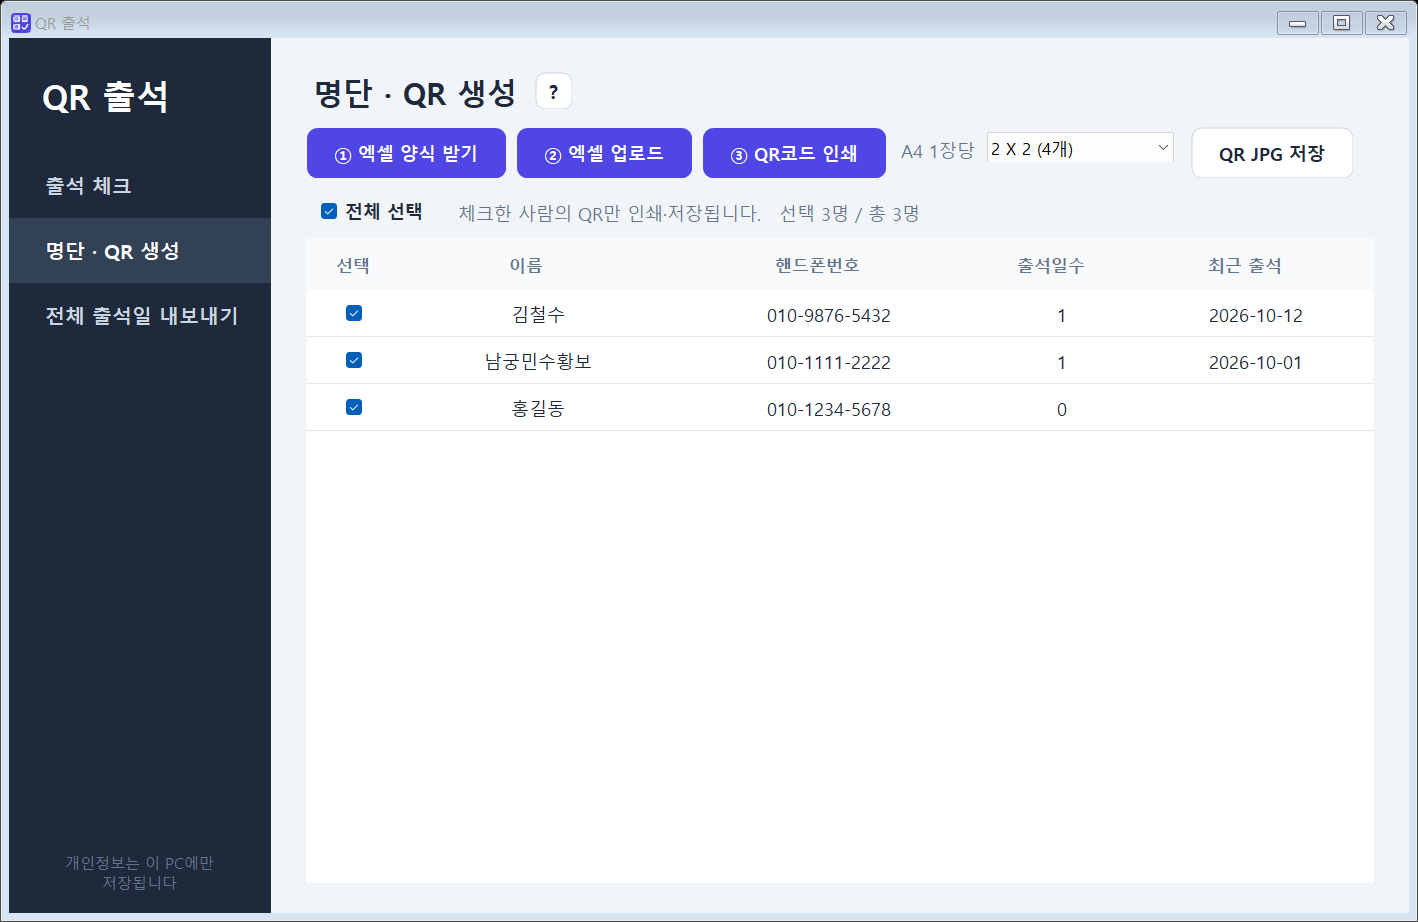
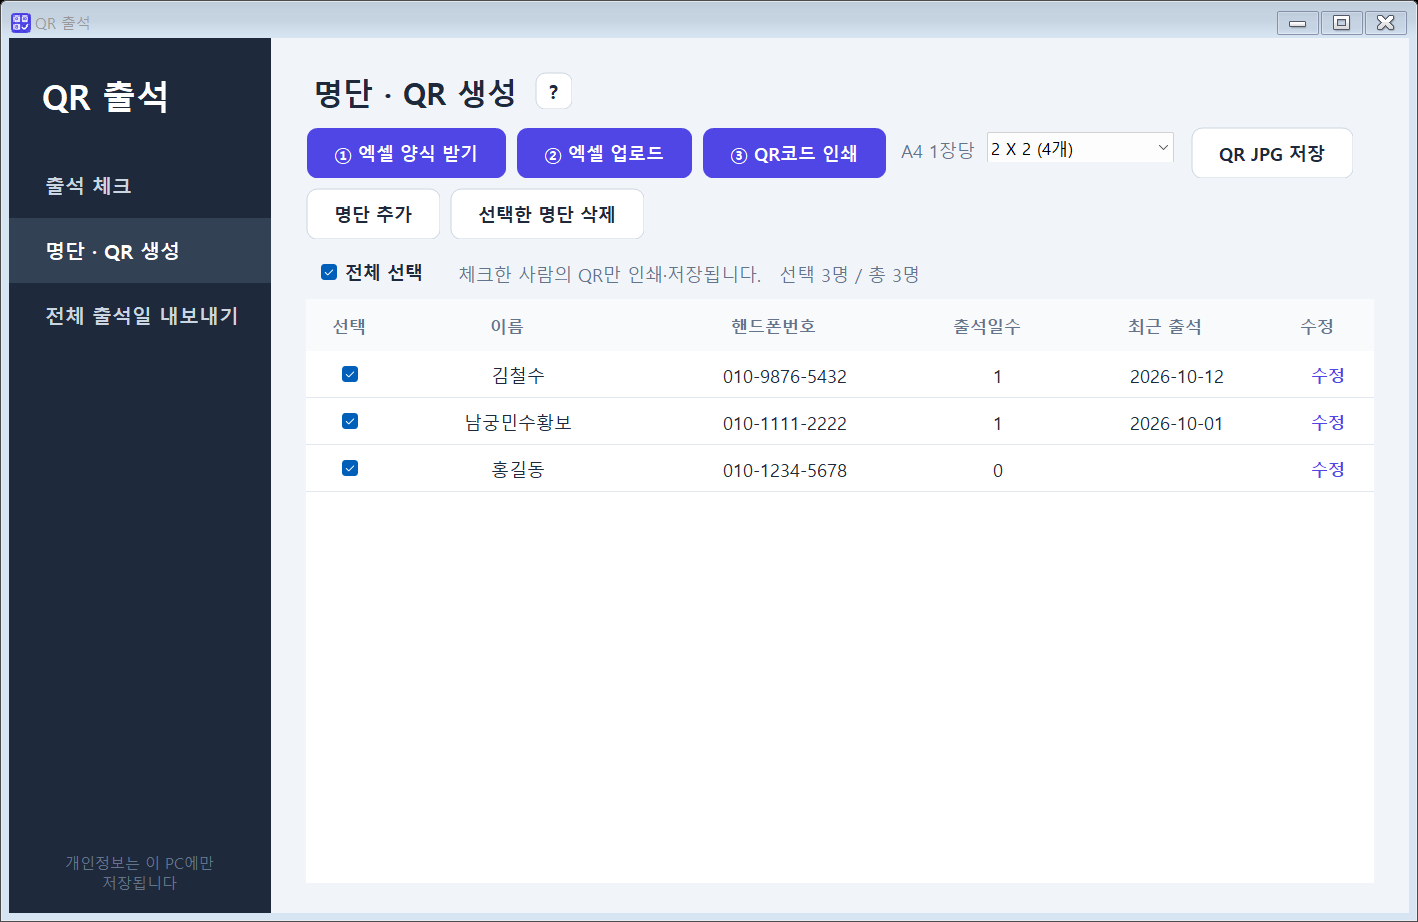
명단 추가·수정·삭제 기능

diff --git a/MainForm.cs b/MainForm.cs
@@ -86,6 +86,7 @@ class MainForm : Form
         }
         snapshotDir = dir;
         ShowRosterHelp();
+        PersonDialog("명단 수정", "홍길동", "010-1234-5678");
         snapshotDir = null;
         OpenFullscreen();
         var gray = new Bitmap(1280, 720);
@@ -466,6 +467,8 @@ class MainForm : Form
         gridBox.Margin = new Padding(0, S(4), S(6), 0);
         bar.Controls.Add(perPage);
         bar.Controls.Add(Btn("QR JPG 저장", SaveCards, Kind.Secondary));
+        bar.Controls.Add(Btn("명단 추가", AddPerson, Kind.Secondary));
+        bar.Controls.Add(Btn("선택한 명단 삭제", DeletePeople, Kind.Secondary));
 
         // 체크한 사람만 인쇄/저장. 처음엔 전원 체크
         var pick = new FlowLayoutPanel { Dock = DockStyle.Top, Height = S(40), WrapContents = false, Padding = new Padding(S(12), S(6), 0, 0) };
@@ -484,10 +487,19 @@ class MainForm : Form
         rosterGrid.Columns.Insert(0, new DataGridViewCheckBoxColumn { HeaderText = "선택", FillWeight = 10 });
         rosterGrid.DefaultCellStyle.SelectionBackColor = Color.White; // 행 강조 대신 체크박스로만 선택을 표시
         rosterGrid.Cursor = Cursors.Hand;
+        var editCol = new DataGridViewTextBoxColumn { HeaderText = "수정", FillWeight = 10 };
+        editCol.DefaultCellStyle.ForeColor = editCol.DefaultCellStyle.SelectionForeColor = Theme.Accent;
+        editCol.DefaultCellStyle.Font = new Font(Core.FontName, 10, FontStyle.Bold);
+        rosterGrid.Columns.Add(editCol);
         void Toggle(object s, DataGridViewCellEventArgs e)
         {
             if (e.RowIndex < 0) return;
             var row = rosterGrid.Rows[e.RowIndex];
+            if (e.ColumnIndex == editCol.Index)
+            {
+                EditPerson(row);
+                return;
+            }
             SetPicked(row, !(bool)row.Cells[0].Value);
             UpdatePick();
         }
@@ -508,6 +520,7 @@ class MainForm : Form
             ("3. QR을 만들 사람 고르기", "명단 왼쪽의 체크가 켜진 사람만 QR이 만들어집니다. 처음에는 모두 켜져 있습니다.\n한 사람씩 누르면 켜고 끌 수 있고, [전체 선택]으로 한꺼번에 켜고 끕니다."),
             ("4. QR코드 인쇄", "[A4 1장당]에서 한 장에 몇 개를 넣을지 고른 뒤 [③ QR코드 인쇄]를 누릅니다.\n미리보기 창이 뜨면 왼쪽 위의 프린터 그림을 눌러 인쇄합니다."),
             ("5. QR JPG 저장", "[QR JPG 저장]을 누르고 폴더를 고르면 한 사람당 그림 파일 하나(이름.jpg)로 저장됩니다.\n핸드폰에 넣어 두고 화면을 카메라에 대도 출석이 됩니다."),
+            ("6. 명단 추가 · 수정 · 삭제", "[명단 추가]로 한 명씩 직접 등록할 수 있습니다.\n명단 오른쪽 끝의 [수정]을 누르면 이름과 핸드폰번호를 고칩니다. QR은 바뀌지 않습니다.\n지울 사람만 체크하고 [선택한 명단 삭제]를 누르면 출석 기록까지 함께 지워지며 되돌릴 수 없습니다."),
         };
         using var dlg = new Form
         {
@@ -546,7 +559,7 @@ class MainForm : Form
         var rows = Core.Query(@"SELECT p.id, p.name, p.phone, COUNT(a.id), COALESCE(MAX(a.day), '')
                                 FROM people p LEFT JOIN attendance a ON a.person_id=p.id
                                 GROUP BY p.id ORDER BY p.name, p.phone");
-        Fill(rosterGrid, rows.Select(r => ((long)r[0], new[] { !unpicked.Contains((long)r[0]), r[1], r[2], r[3], r[4] })));
+        Fill(rosterGrid, rows.Select(r => ((long)r[0], new[] { !unpicked.Contains((long)r[0]), r[1], r[2], r[3], r[4], "수정" })));
         UpdatePick();
     }
 
@@ -598,6 +611,97 @@ class MainForm : Form
         {
             MessageBox.Show(e.Message, "업로드 실패", MessageBoxButtons.OK, MessageBoxIcon.Error);
         }
+    }
+
+    /// <returns>취소하면 null</returns>
+    (string name, string phone)? PersonDialog(string caption, string name, string phone)
+    {
+        using var dlg = new Form
+        {
+            Text = caption, Icon = Icon, Font = Font, BackColor = Color.White, FormBorderStyle = FormBorderStyle.FixedDialog,
+            MaximizeBox = false, MinimizeBox = false, ShowInTaskbar = false, StartPosition = FormStartPosition.CenterParent,
+            ClientSize = new Size(S(380), S(190)),
+        };
+        TextBox Field(string label, string value, int y)
+        {
+            dlg.Controls.Add(new Label { Text = label, AutoSize = true, Location = new Point(S(24), y + S(5)) });
+            var box = new TextBox { Text = value, Location = new Point(S(120), y), Width = S(236), Font = new Font(Core.FontName, 11) };
+            dlg.Controls.Add(box);
+            return box;
+        }
+        var nameBox = Field("이름", name, S(26));
+        var phoneBox = Field("핸드폰번호", phone, S(72));
+        var ok = Btn("저장", () =>
+        {
+            if (nameBox.Text.Trim() == "")
+            {
+                MessageBox.Show(dlg, "이름을 입력하세요.", caption, MessageBoxButtons.OK, MessageBoxIcon.Warning);
+                return;
+            }
+            dlg.DialogResult = DialogResult.OK;
+        });
+        var cancel = Btn("취소", dlg.Close, Kind.Secondary);
+        ok.AutoSize = cancel.AutoSize = false;
+        ok.Size = cancel.Size = new Size(S(100), S(38));
+        cancel.Location = new Point(dlg.ClientSize.Width - S(24) - cancel.Width, S(128));
+        ok.Location = new Point(cancel.Left - S(8) - ok.Width, S(128));
+        dlg.Controls.Add(ok);
+        dlg.Controls.Add(cancel);
+        dlg.AcceptButton = ok;
+        dlg.CancelButton = cancel;
+        if (snapshotDir != null)
+        {
+            dlg.Shown += (_, _) =>
+            {
+                using var bmp = new Bitmap(dlg.Width, dlg.Height);
+                dlg.DrawToBitmap(bmp, new Rectangle(Point.Empty, dlg.Size));
+                bmp.Save(Path.Combine(snapshotDir, "person.png"));
+                dlg.Close();
+            };
+        }
+        return dlg.ShowDialog(this) == DialogResult.OK ? (nameBox.Text, phoneBox.Text) : null;
+    }
+
+    void AddPerson()
+    {
+        var input = PersonDialog("명단 추가", "", "");
+        if (input == null) return;
+        if (!Core.AddPerson(input.Value.name, input.Value.phone))
+        {
+            MessageBox.Show("이름과 핸드폰번호가 같은 사람이 이미 등록되어 있습니다.", "명단 추가", MessageBoxButtons.OK, MessageBoxIcon.Warning);
+            return;
+        }
+        RefreshRoster();
+        RefreshToday();
+    }
+
+    void EditPerson(DataGridViewRow row)
+    {
+        var input = PersonDialog("명단 수정", (string)row.Cells[1].Value, (string)row.Cells[2].Value);
+        if (input == null) return;
+        if (!Core.UpdatePerson((long)row.Tag, input.Value.name, input.Value.phone))
+        {
+            MessageBox.Show("이름과 핸드폰번호가 같은 사람이 이미 등록되어 있습니다.", "명단 수정", MessageBoxButtons.OK, MessageBoxIcon.Warning);
+            return;
+        }
+        RefreshRoster();
+        RefreshToday();
+    }
+
+    void DeletePeople()
+    {
+        var ids = PickedIds();
+        if (ids.Count == 0)
+        {
+            MessageBox.Show("삭제할 사람을 체크하세요.", "명단 삭제", MessageBoxButtons.OK, MessageBoxIcon.Information);
+            return;
+        }
+        var who = ids.Count == rosterGrid.Rows.Count ? $"명단 전체({ids.Count}명)" : $"체크한 {ids.Count}명";
+        if (MessageBox.Show($"{who}을 삭제할까요?\n이 사람들의 출석 기록도 함께 지워지며 되돌릴 수 없습니다.", "명단 삭제",
+                MessageBoxButtons.YesNo, MessageBoxIcon.Warning, MessageBoxDefaultButton.Button2) != DialogResult.Yes) return;
+        Core.DeletePeople(ids);
+        RefreshRoster();
+        RefreshToday();
     }
 
     List<Person> CardTargets()

diff --git a/Core.cs b/Core.cs
@@ -168,8 +168,10 @@ static class Core
     }
 
     /// <summary>이미 있으면 false (기존 QR 유지)</summary>
-    static bool AddPerson(string name, string phone)
+    public static bool AddPerson(string name, string phone)
     {
+        name = (name ?? "").Trim();
+        phone = NormPhone(phone);
         if (Scalar("SELECT 1 FROM people WHERE name=@p0 AND phone=@p1", name, phone) != null) return false;
         while (true)
         {
@@ -182,6 +184,26 @@ static class Core
                 return true;
             }
             catch (SqliteException e) when (e.SqliteErrorCode == 19) { }
+        }
+    }
+
+    /// <summary>같은 이름+번호인 다른 사람이 있으면 false. QR(token)은 그대로</summary>
+    public static bool UpdatePerson(long id, string name, string phone)
+    {
+        name = (name ?? "").Trim();
+        phone = NormPhone(phone);
+        if (Scalar("SELECT 1 FROM people WHERE name=@p0 AND phone=@p1 AND id<>@p2", name, phone, id) != null) return false;
+        Exec("UPDATE people SET name=@p0, phone=@p1 WHERE id=@p2", name, phone, id);
+        return true;
+    }
+
+    /// <summary>출석 기록도 함께 삭제</summary>
+    public static void DeletePeople(IEnumerable<long> ids)
+    {
+        foreach (var id in ids)
+        {
+            Exec("DELETE FROM attendance WHERE person_id=@p0", id);
+            Exec("DELETE FROM people WHERE id=@p0", id);
         }
     }
 

diff --git a/Program.cs b/Program.cs
@@ -72,6 +72,13 @@ static class Program
                 form.Snapshot(dir);
                 log.AppendLine("form ok");
             }
+            var hong = Core.People().First(p => p.Name == "홍길동");
+            log.AppendLine($"add {Core.AddPerson(" 이영희 ", "1055556666")} / add dup {Core.AddPerson("이영희", "010-5555-6666")}");
+            log.AppendLine($"update {Core.UpdatePerson(hong.Id, "홍길순", "01012345678")} / update dup {Core.UpdatePerson(hong.Id, "이영희", "01055556666")}");
+            var after = Core.People().First(p => p.Id == hong.Id);
+            log.AppendLine($"updated {after.Name} {after.Phone} token same={after.Token == hong.Token}");
+            Core.DeletePeople(new[] { hong.Id });
+            log.AppendLine($"delete people={Core.People().Count} hong att={Core.Scalar("SELECT COUNT(*) FROM attendance WHERE person_id=@p0", hong.Id)} names={string.Join(",", Core.People().Select(p => p.Name))}");
             Core.Close();
         }
         catch (Exception e)

diff --git a/README.md b/README.md
@@ -8,6 +8,7 @@
 ## 주요 기능
 
 - **명단 업로드** — 엑셀(이름 + 핸드폰번호) 양식을 내려받아 채운 뒤 업로드하면 사람마다 QR이 만들어집니다. 같은 사람을 다시 올려도 중복 등록되지 않고 기존 QR이 유지됩니다.
+- **명단 추가 · 수정 · 삭제** — 한 명씩 직접 등록하거나 이름·번호를 고칠 수 있습니다. 수정해도 QR은 바뀌지 않으며, 삭제하면 그 사람의 출석 기록도 함께 지워집니다.
 - **QR코드 인쇄** — A4 한 장에 2×2 / 3×3 / 4×4 배치로 인쇄합니다. 체크한 사람만 골라 인쇄할 수 있습니다.
 - **QR JPG 저장** — 핸드폰에 넣어 쓸 수 있게 사람별 JPG 파일로 저장합니다.
 - **웹캠 출석 체크** — 전체화면 웹캠에 QR을 비추면 출석이 기록됩니다. 가운데 맞춤 가이드와 결과 표시(출석 완료 / 이미 출석 / 미등록 QR)가 나옵니다.
